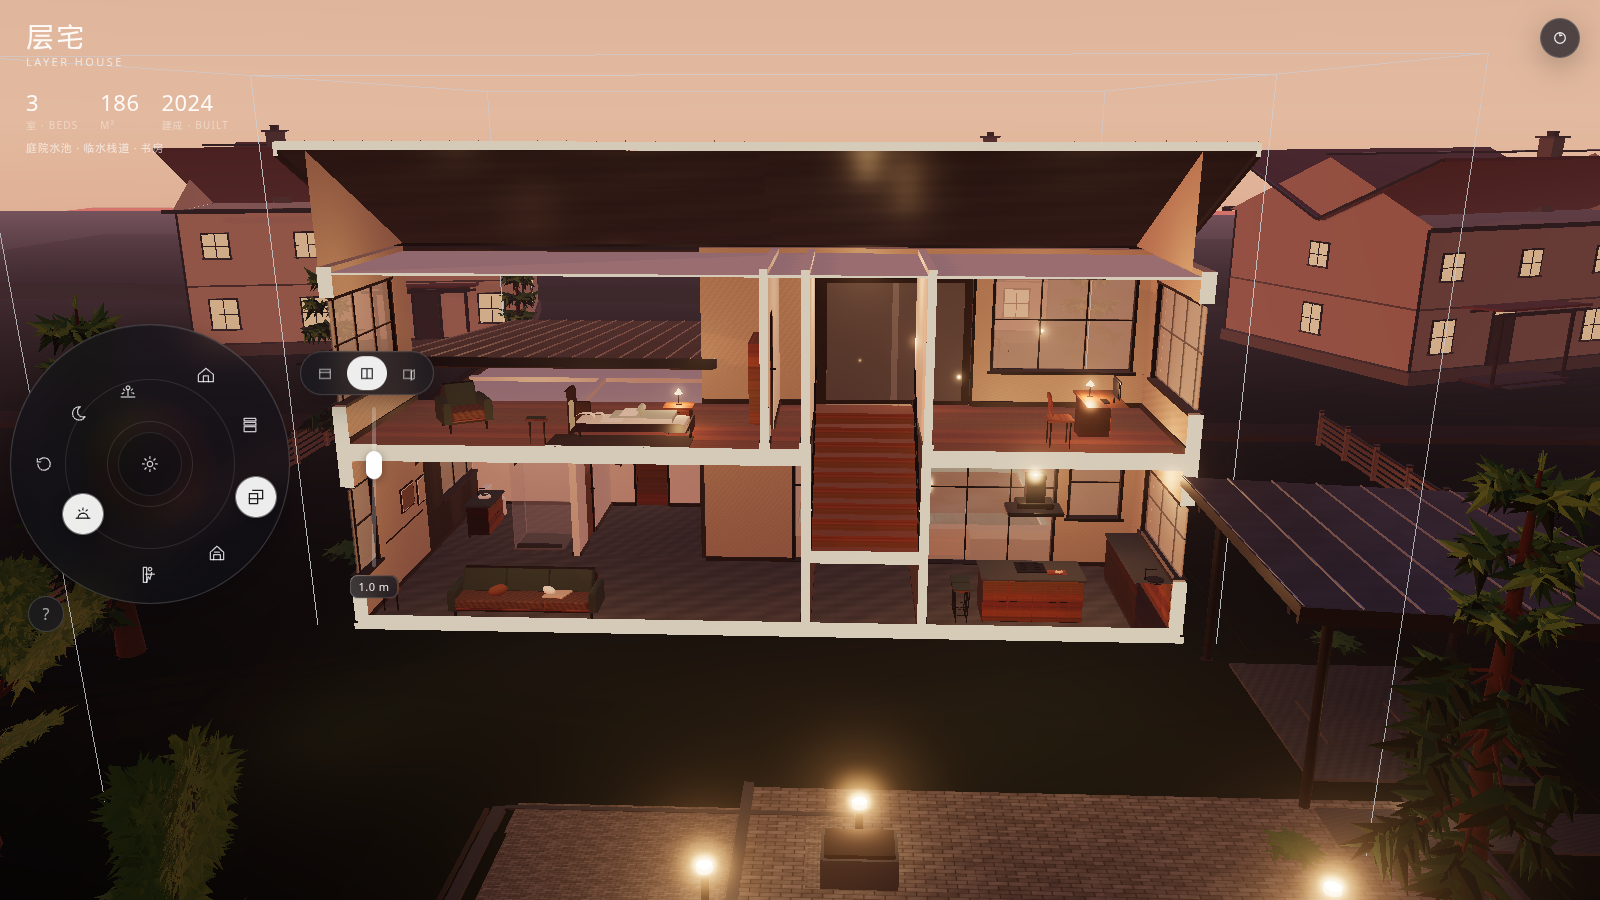
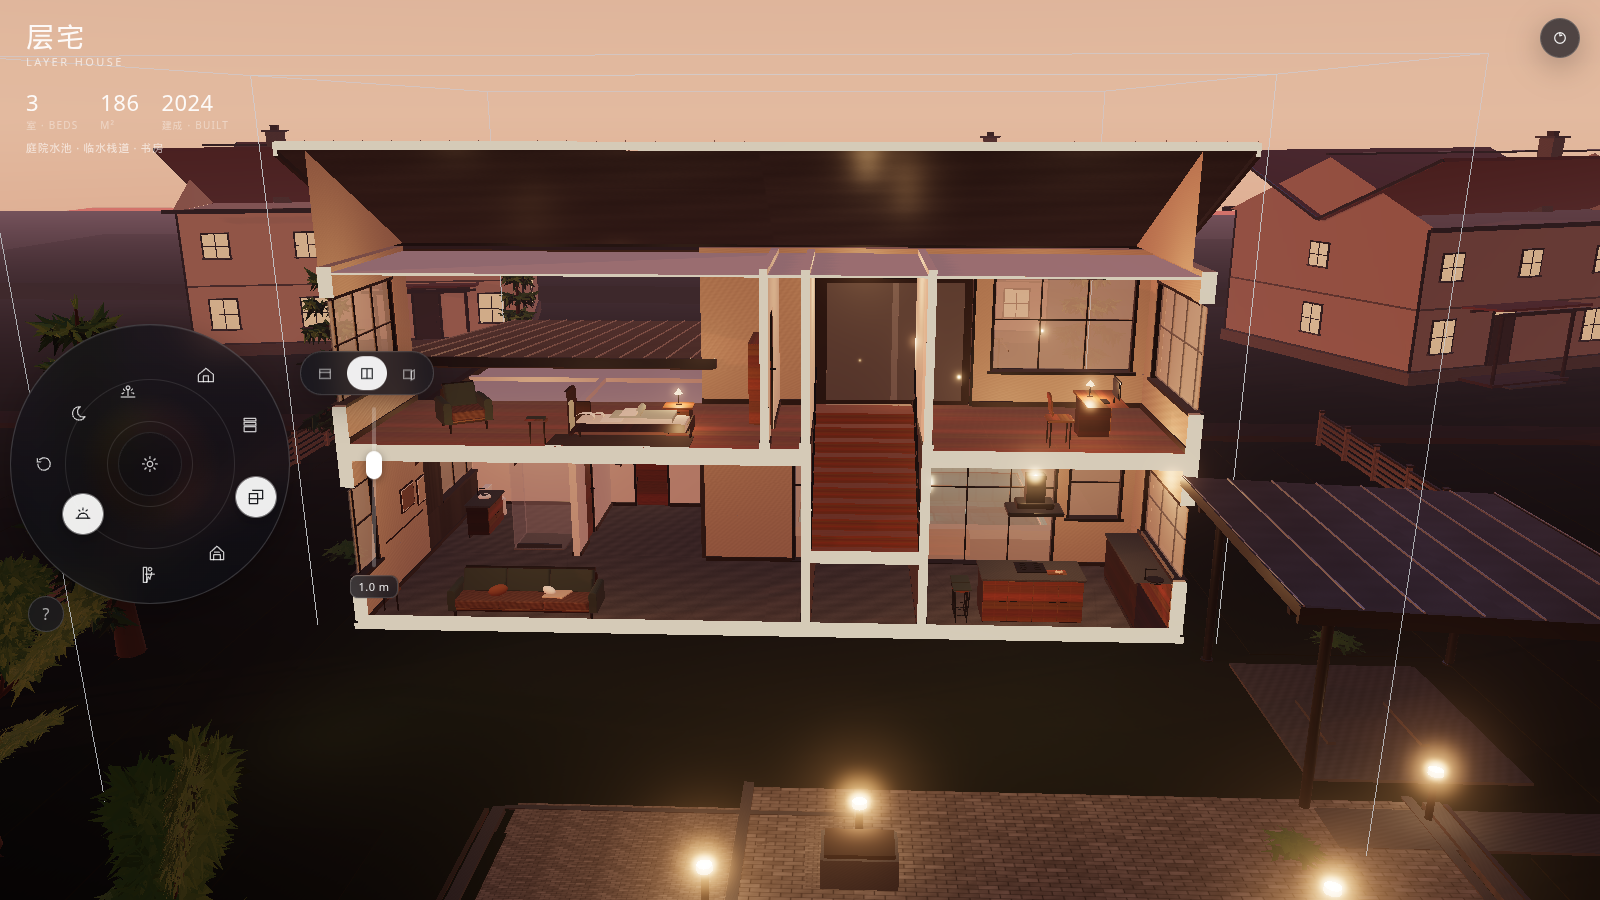
Give the deep pool a surface and move the front pine onto the lawn.
The deep end was a black floor under the dusk courtyard camera. It now keeps the coping, shallow caustic, and lip glow, with a quieter mid band and a faint unmapped sheen. Walk mode eases only the northern living recessed lamp, and the front pine's trunk sits on the lawn east of the drive curb.

Changed region(s): [[0.8438, 0.4978, 1.0, 1.0], [0.625, 0.6533, 0.6875, 0.6844], [0.5625, 0.5289, 0.625, 0.56]]

diff --git a/src/scene/site/index.ts b/src/scene/site/index.ts
@@ -218,8 +218,10 @@ export function buildWater(_scene: THREE.Scene, rec: HouseRecord): THREE.Group {
     pool: basin.pool,
     poolTint: basin.poolTint,
     poolFloor: basin.poolFloor,
+    poolMid: basin.poolMid,
     poolDeep: basin.poolDeep,
     caustic: basin.caustic,
+    poolSheen: basin.poolSheen,
     group: waterGrp,
   };
   return waterGrp;
@@ -310,6 +312,37 @@ function causticMap(): THREE.CanvasTexture {
       ctx.ellipse(x, y, rx, ry, i * 0.6, 0, Math.PI * 2);
       ctx.fill();
     }
+    // Canvas top is north (deep). Keep the pattern on the shallow south end.
+    ctx.globalCompositeOperation = "destination-in";
+    const fade = ctx.createLinearGradient(0, h, 0, 0);
+    fade.addColorStop(0, "rgba(0,0,0,1)");
+    fade.addColorStop(0.46, "rgba(0,0,0,0.9)");
+    fade.addColorStop(0.68, "rgba(0,0,0,0.12)");
+    fade.addColorStop(1, "rgba(0,0,0,0)");
+    ctx.fillStyle = fade;
+    ctx.fillRect(0, 0, w, h);
+  });
+}
+
+function sheenMap(): THREE.CanvasTexture {
+  return canvasTexture(512, 256, (ctx, w, h) => {
+    ctx.clearRect(0, 0, w, h);
+    const film = ctx.createLinearGradient(0, h, 0, 0);
+    film.addColorStop(0, "rgba(186,224,214,0.05)");
+    film.addColorStop(0.22, "rgba(214,238,230,0.34)");
+    film.addColorStop(0.55, "rgba(232,246,240,0.48)");
+    film.addColorStop(0.84, "rgba(200,228,220,0.22)");
+    film.addColorStop(1, "rgba(180,214,206,0.04)");
+    ctx.fillStyle = film;
+    ctx.fillRect(0, 0, w, h);
+    const streak = ctx.createRadialGradient(w * 0.4, h * 0.46, 6, w * 0.46, h * 0.5, w * 0.42);
+    streak.addColorStop(0, "rgba(255,255,255,0.8)");
+    streak.addColorStop(0.4, "rgba(236,248,244,0.35)");
+    streak.addColorStop(1, "rgba(255,255,255,0)");
+    ctx.fillStyle = streak;
+    ctx.beginPath();
+    ctx.ellipse(w * 0.42, h * 0.48, w * 0.36, h * 0.18, -0.42, 0, Math.PI * 2);
+    ctx.fill();
   });
 }
 
@@ -381,13 +414,21 @@ function buildPoolBasin(
     emissive: 0x08302e,
     emissiveIntensity: 0.04,
   });
-  const deepMat = new THREE.MeshStandardMaterial({
-    color: 0x10282c,
+  const midMat = new THREE.MeshStandardMaterial({
+    color: 0x2a625c,
     map,
-    roughness: 0.74,
-    metalness: 0.04,
-    emissive: 0x041616,
-    emissiveIntensity: 0.02,
+    roughness: 0.64,
+    metalness: 0.05,
+    emissive: 0x0c3834,
+    emissiveIntensity: 0.05,
+  });
+  const deepMat = new THREE.MeshStandardMaterial({
+    color: 0x1c4644,
+    map,
+    roughness: 0.7,
+    metalness: 0.06,
+    emissive: 0x0c3030,
+    emissiveIntensity: 0.06,
   });
   const shell = new THREE.Mesh(
     new THREE.BoxGeometry(pw - 0.02, 0.16, pd - 0.02),
@@ -401,7 +442,9 @@ function buildPoolBasin(
   const floorBottom = -0.86;
   const bands = tops.length;
   let poolFloor: THREE.Mesh<THREE.BufferGeometry, THREE.MeshStandardMaterial> | null = null;
+  let poolMid: THREE.Mesh<THREE.BufferGeometry, THREE.MeshStandardMaterial> | null = null;
   let poolDeep: THREE.Mesh<THREE.BufferGeometry, THREE.MeshStandardMaterial> | null = null;
+  const bandMat = (i: number) => (i < 2 ? shallowMat : i === 2 ? midMat : deepMat);
   for (let i = 0; i < bands; i++) {
     const zSouth = south - (innerD * i) / bands;
     const zNorth = south - (innerD * (i + 1)) / bands;
@@ -409,15 +452,16 @@ function buildPoolBasin(
     const top = tops[i]!;
     const base = tops[i + 1] ?? floorBottom;
     const thick = top - base;
-    const mat = i < 2 ? shallowMat : deepMat;
+    const mat = bandMat(i);
     const mesh = tileBox(innerW - 0.08, thick, len, mat);
     mesh.position.set(px, base + thick / 2, (zSouth + zNorth) / 2);
-    mesh.name = i < 2 ? "poolFloor" : "poolDeep";
+    mesh.name = i < 2 ? "poolFloor" : i === 2 ? "poolMid" : "poolDeep";
     parent.add(mesh);
     if (i === 0) poolFloor = mesh;
+    if (i === 2) poolMid = mesh;
     if (i === bands - 1) poolDeep = mesh;
   }
-  if (!poolFloor || !poolDeep) throw new Error("pool basin failed to build");
+  if (!poolFloor || !poolMid || !poolDeep) throw new Error("pool basin failed to build");
 
   const wallTop = 0.045;
   const wallT = 0.055;
@@ -440,7 +484,7 @@ function buildPoolBasin(
   for (let i = 0; i < bands; i++) {
     const zSouth = south - (innerD * i) / bands;
     const zNorth = south - (innerD * (i + 1)) / bands;
-    const mat = i < 2 ? shallowMat : deepMat;
+    const mat = bandMat(i);
     for (const side of [-1, 1]) {
       placeWall(
         wallT,
@@ -493,8 +537,30 @@ function buildPoolBasin(
   poolTint.name = "poolTint";
   poolTint.renderOrder = 4;
 
-  parent.add(caustic, poolTint);
-  return { pool: poolTint, poolTint, poolFloor, poolDeep, caustic };
+  // North half only. A soft film so the deep end reads as water, not an empty floor.
+  const sheenD = innerD * 0.5;
+  const poolSheen = new THREE.Mesh(
+    new THREE.PlaneGeometry(innerW - 0.18, sheenD),
+    new THREE.MeshStandardMaterial({
+      color: 0xc9e0d8,
+      map: sheenMap(),
+      transparent: true,
+      opacity: 0.3,
+      depthWrite: false,
+      roughness: 0.24,
+      metalness: 0.28,
+      emissive: 0x7eaea4,
+      emissiveIntensity: 0.08,
+      envMapIntensity: 0.85,
+    }),
+  );
+  poolSheen.rotation.x = -Math.PI / 2;
+  poolSheen.position.set(px, waterY + 0.02, south - innerD + sheenD / 2);
+  poolSheen.name = "poolSheen";
+  poolSheen.renderOrder = 5;
+
+  parent.add(caustic, poolTint, poolSheen);
+  return { pool: poolTint, poolTint, poolFloor, poolMid, poolDeep, caustic, poolSheen };
 }
 
 export function buildLandscape(groups: HouseGroups, mats: Materials, rec: HouseRecord) {
@@ -505,8 +571,11 @@ export function buildLandscape(groups: HouseGroups, mats: Materials, rec: HouseR
   planter(land, mats, rec, 1.4, 7.6, 0.9, 0.6);
 
   // Trees — pines + maples, no palms
-  // Shifted off the carport so the trunk is not in front of the roof.
+  // Same crown as the old driveway pine; the trunk moves onto the lawn east of the curb.
   pine(land, mats, 7.8, 8.6, 1.15, 5.4);
+  const frontPine = land.children.at(-1);
+  // East of the drive curb and south of the carport, so the trunk sits on the lawn.
+  if (frontPine) frontPine.position.set(10.9, 0, 9.5);
   // East of the roof. 11.2 sat under it and the trunk grew through the slab.
   pine(land, mats, 12.6, 4.2, 0.95, 4.6);
   pine(land, mats, -10.6, 2.2, 1.2, 5.8);

diff --git a/src/app/lighting.ts b/src/app/lighting.ts
@@ -73,14 +73,27 @@ export function syncOpenRoofLighting(s: Session) {
     fl.color.setHex(glow > 0.5 ? 0x2a6e68 : 0x4a948c);
     fl.emissive.setHex(0x146860);
     fl.emissiveIntensity = 0.08 + glow * 0.42;
+    const lit = glow > 0.5;
+    const mid = s.rec.water.poolMid.material;
+    mid.toneMapped = true;
+    mid.color.setHex(lit ? 0x245e58 : 0x387870);
+    mid.emissive.setHex(0x146458);
+    mid.emissiveIntensity = lit ? 0.4 : 0.06;
     const deep = s.rec.water.poolDeep.material;
     deep.toneMapped = true;
-    deep.color.setHex(glow > 0.5 ? 0x0c2428 : 0x163430);
-    deep.emissive.setHex(0x041c1c);
-    deep.emissiveIntensity = 0.015 + glow * 0.05;
+    deep.color.setHex(lit ? 0x2a7068 : 0x3a8478);
+    deep.emissive.setHex(0x1c8878);
+    deep.emissiveIntensity = lit ? 0.48 : 0.07;
     const cau = s.rec.water.caustic.material;
     cau.opacity = 0.1 + glow * 0.08;
     cau.emissiveIntensity = 0.04 + glow * 0.14;
+    const sheen = s.rec.water.poolSheen.material;
+    // Open-roof exposure crushes a tone-mapped film back to black.
+    sheen.toneMapped = false;
+    sheen.opacity = lit ? 0.36 : 0.16;
+    sheen.color.setHex(0xd5ebe3);
+    sheen.emissive.setHex(0x9ecfc2);
+    sheen.emissiveIntensity = lit ? 0.22 : 0.05;
   }
   if (s.mode === "walk") {
     s.renderer.toneMappingExposure *= 0.72;
@@ -88,7 +101,10 @@ export function syncOpenRoofLighting(s: Session) {
     s.bloom.threshold = Math.max(s.bloom.threshold, 0.98);
     s.mats.lampBulb.emissiveIntensity *= 0.22;
     s.mats.lampShade.emissiveIntensity *= 0.4;
-    for (const l of s.rec.lamps) l.intensity *= 0.34;
+    for (const l of s.rec.lamps) {
+      const walkScale = Number(l.userData.walk);
+      l.intensity *= 0.34 * (Number.isFinite(walkScale) ? walkScale : 1);
+    }
   }
 }
 

diff --git a/src/scene/furnish/index.ts b/src/scene/furnish/index.ts
@@ -41,6 +41,7 @@ function lamp(
   mats: Materials,
   kind: LampKind = "pendant",
   intensity = 1,
+  walk = 1,
 ) {
   switch (kind) {
     case "pendant":
@@ -78,6 +79,7 @@ function lamp(
   const light = new THREE.PointLight(0xffc888, 0, 7.5, 2);
   light.position.set(x, lightY, z);
   light.userData.base = intensity;
+  light.userData.walk = walk;
   parent.add(light);
   rec.lamps.push(light);
   return undefined;
@@ -101,7 +103,8 @@ export function furnishHouse(groups: HouseGroups, mats: Materials, rec: HouseRec
   bench(f, pal, -6.84, y0, 1.25, Math.PI / 2, 1.5);
   bench(f, pal, -1.84, y0, 5.45, Math.PI / 2, 0.84);
   plant(f, pal, -2.45, y0, 4.65);
-  lamp(f, rec, -4.3, Y_GF_CEIL - 0.02, 1.6, mats, "recessed", 0.9);
+  // Northern living recessed light. Walk view puts it on the solid return; ease only there.
+  lamp(f, rec, -4.3, Y_GF_CEIL - 0.02, 1.6, mats, "recessed", 0.9, 0.38);
   lamp(f, rec, -5.6, Y_GF_CEIL - 0.02, 3.4, mats, "recessed", 0.7);
   lamp(f, rec, -3.0, Y_GF_CEIL - 0.02, 3.4, mats, "recessed", 0.7);
   lamp(f, rec, -6.3, y0, 4.6, mats, "floor", 0.55);

diff --git a/src/types/index.ts b/src/types/index.ts
@@ -174,8 +174,10 @@ export interface WaterRecord {
   pool: THREE.Object3D;
   poolTint: THREE.Mesh<THREE.PlaneGeometry, THREE.MeshStandardMaterial>;
   poolFloor: THREE.Mesh<THREE.BufferGeometry, THREE.MeshStandardMaterial>;
+  poolMid: THREE.Mesh<THREE.BufferGeometry, THREE.MeshStandardMaterial>;
   poolDeep: THREE.Mesh<THREE.BufferGeometry, THREE.MeshStandardMaterial>;
   caustic: THREE.Mesh<THREE.PlaneGeometry, THREE.MeshStandardMaterial>;
+  poolSheen: THREE.Mesh<THREE.PlaneGeometry, THREE.MeshStandardMaterial>;
   group: THREE.Group;
 }
 
